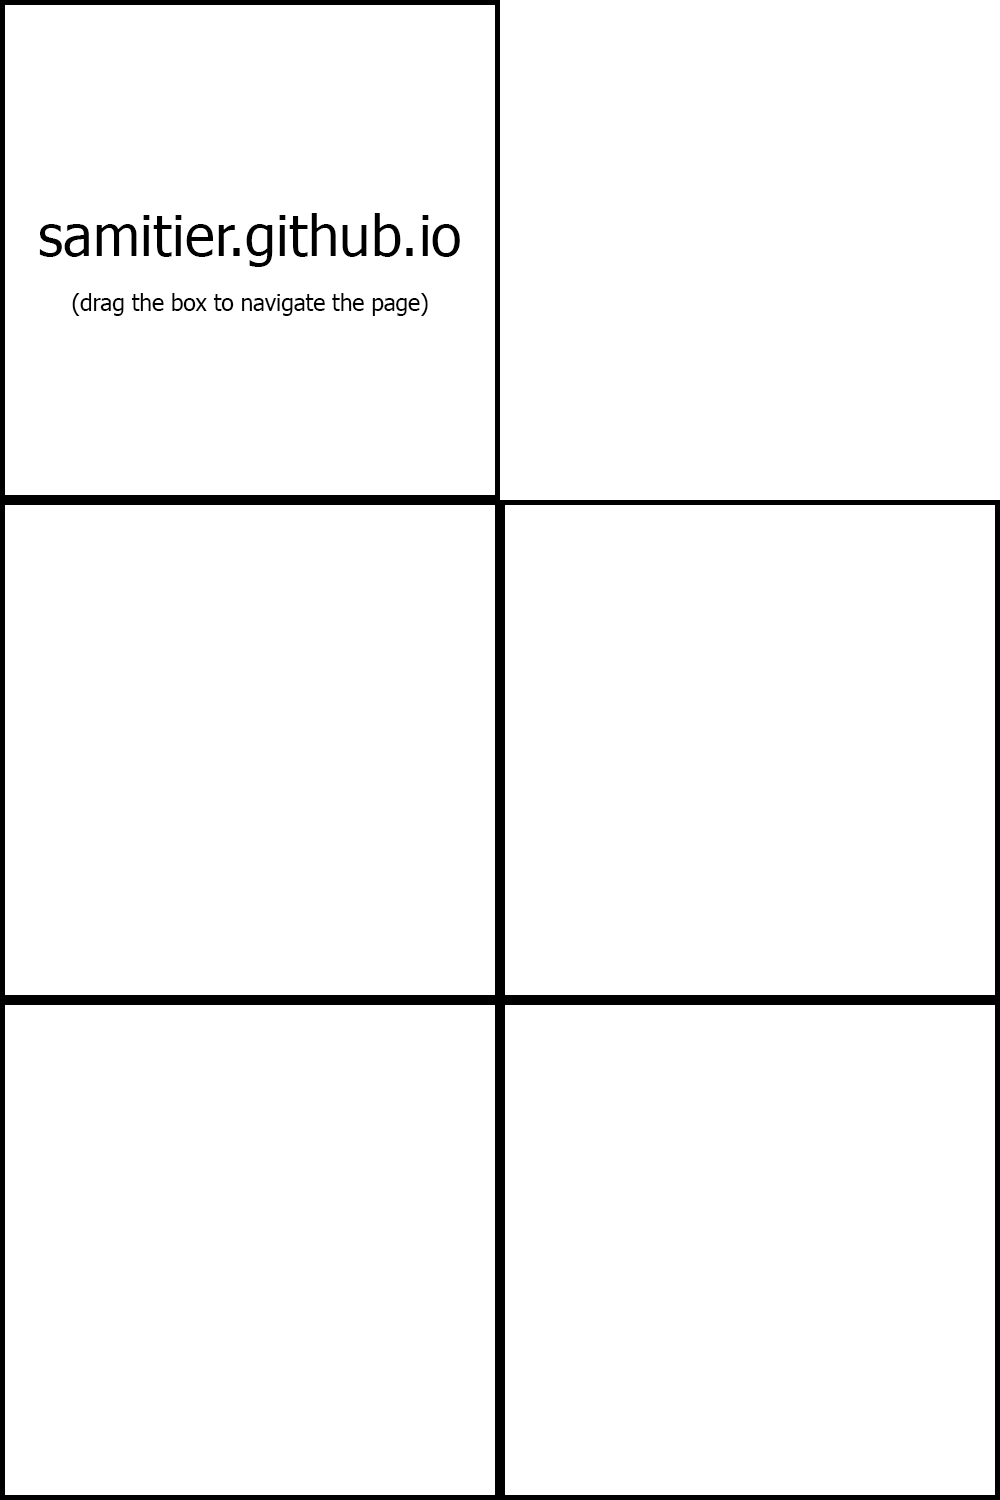
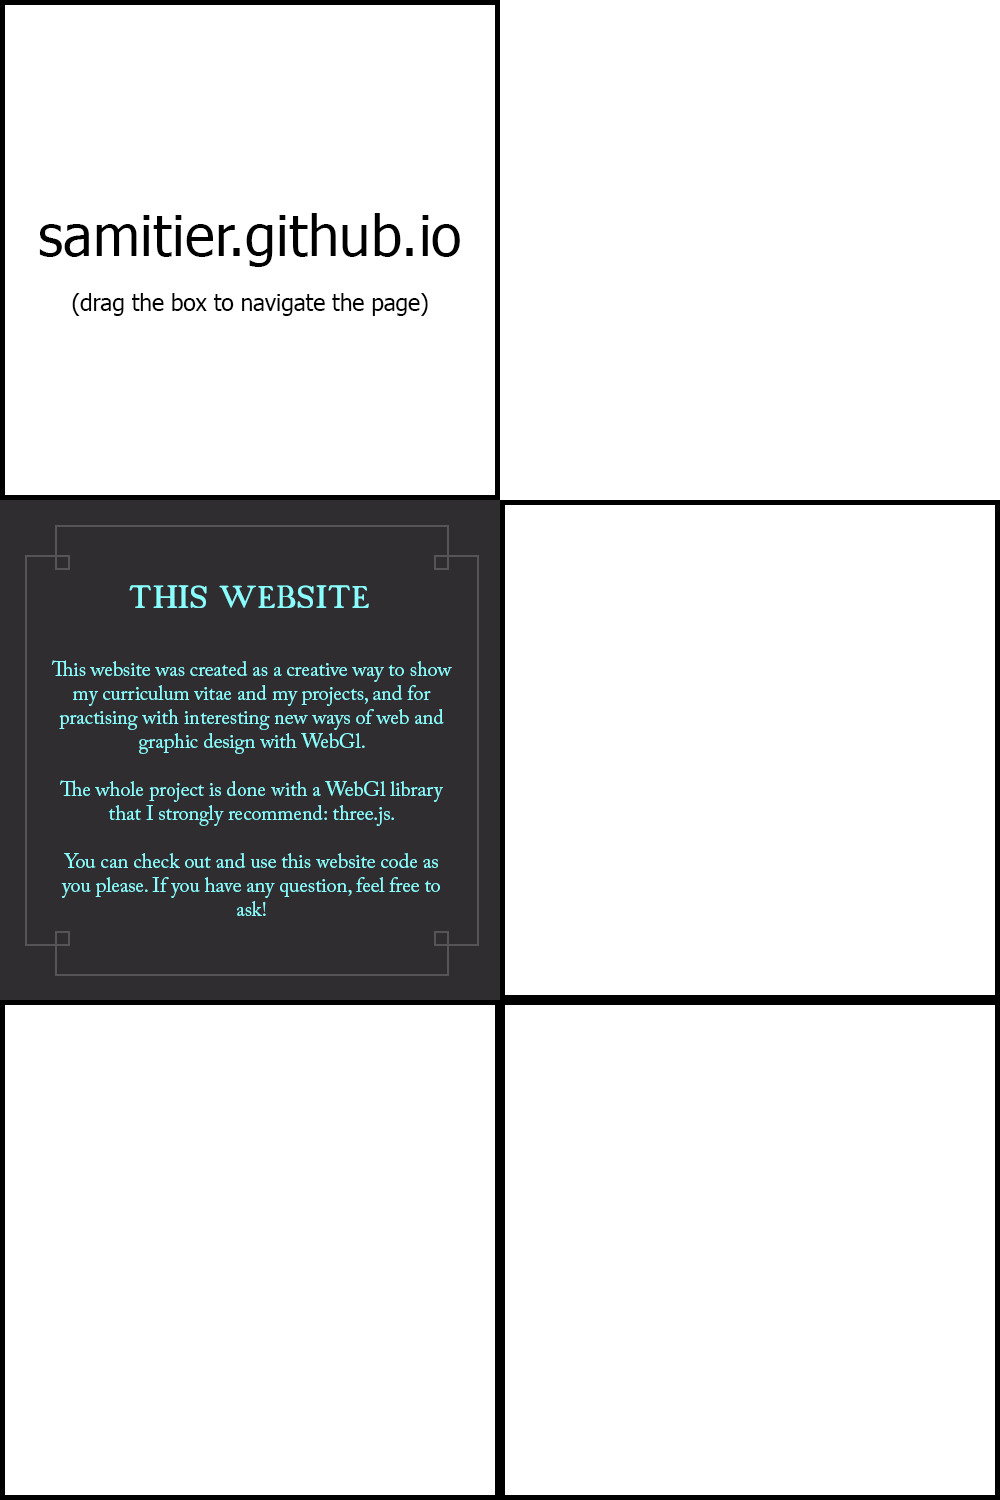
navigation data structure added, website page added
also debug background textures for each page

Changed region(s): [[0.0, 0.3067, 0.527, 0.6747]]

diff --git a/js/main.js b/js/main.js
@@ -1,27 +1,23 @@
 var MAX_ROTATION = 1.5708;
 var background,background2, backgroundScene, backgroundCam;
 var cube, scene, camera;
-var uvCoords;
 var renderer;
-var rotx, roty, mousex, mousey, mouseDown,axisRotating;
+var rotx, roty, mousex, mousey, mouseDown,rotationAxis;
 var curPage;
-var textureMain, textureProva, backgroundTexture, backgroundTexture2;
 
 function init() {
    if(Modernizr.webgl && Modernizr.canvas) {
 
       //BACKGROUND
-      backgroundTexture = THREE.ImageUtils.loadTexture( 'img/bkg/bkg1.png' );
       background = new THREE.Mesh(
          new THREE.PlaneGeometry(2, 2, 0),
-         new THREE.MeshBasicMaterial({map: backgroundTexture, transparent:true, opacity: 1})
+         new THREE.MeshBasicMaterial({map: bkgMain, transparent:true, opacity: 1})
       );
       background.material.depthTest = false;
       background.material.depthWrite = false;
-      backgroundTexture2 = THREE.ImageUtils.loadTexture( 'img/bkg/bkg2.jpg' );
       background2 = new THREE.Mesh(
          new THREE.PlaneGeometry(2, 2, 0),
-         new THREE.MeshBasicMaterial({map: backgroundTexture2, transparent:true, opacity: 1})
+         new THREE.MeshBasicMaterial({map: bkgMain})
       );
       background2.material.depthTest = false;
       background2.material.depthWrite = false;
@@ -35,44 +31,23 @@ function init() {
       //CUBE
       scene = new THREE.Scene();
       camera = new THREE.PerspectiveCamera( 75, window.innerWidth / window.innerHeight, 0.1, 1000 );
+      camera.position.z = 1.4;
       renderer = new THREE.WebGLRenderer();
       renderer.setSize( window.innerWidth, window.innerHeight );
       document.body.appendChild( renderer.domElement );
       var geometry = new THREE.BoxGeometry( 1, 1, 1 );
-      textureMain = THREE.ImageUtils.loadTexture( 'img/pages/main.png' );
-      textureProva = THREE.ImageUtils.loadTexture( 'img/pages/prova.png' );
-      var material = new THREE.MeshBasicMaterial( {map: textureMain} );
-      curPage = "main";
-
-      //UV MAPPING
-      uvCoords={front :[new THREE.Vector2(0, .666), new THREE.Vector2(.5, .666), new THREE.Vector2(.5, 1), new THREE.Vector2(0, 1)],
-               back:[new THREE.Vector2(.5, .666), new THREE.Vector2(1, .666), new THREE.Vector2(1, 1), new THREE.Vector2(.5, 1)],
-               left:[new THREE.Vector2(0, .333), new THREE.Vector2(.5, .333), new THREE.Vector2(.5, .666), new THREE.Vector2(0, .666)],
-               right:[new THREE.Vector2(.5, .333), new THREE.Vector2(1, .333), new THREE.Vector2(1, .666), new THREE.Vector2(.5, .666)],
-               top:[new THREE.Vector2(0, 0), new THREE.Vector2(.5, 0), new THREE.Vector2(.5, .333), new THREE.Vector2(0, .333)],
-               down:[new THREE.Vector2(.5, 0), new THREE.Vector2(1, 0), new THREE.Vector2(1, .333), new THREE.Vector2(.5, .333)]};
-
-      geometry.faceVertexUvs[0][0] = [uvCoords.right[3], uvCoords.right[0], uvCoords.right[2]];
-      geometry.faceVertexUvs[0][1] = [uvCoords.right[0], uvCoords.right[1], uvCoords.right[2]];
-      geometry.faceVertexUvs[0][2] = [uvCoords.left[3], uvCoords.left[0], uvCoords.left[2]];
-      geometry.faceVertexUvs[0][3] = [uvCoords.left[0], uvCoords.left[1], uvCoords.left[2]];
-      geometry.faceVertexUvs[0][4] = [uvCoords.top[3], uvCoords.top[0], uvCoords.top[2]];
-      geometry.faceVertexUvs[0][5] = [uvCoords.top[0], uvCoords.top[1], uvCoords.top[2]];
-      geometry.faceVertexUvs[0][6] = [uvCoords.down[3], uvCoords.down[0], uvCoords.down[2]];
-      geometry.faceVertexUvs[0][7] = [uvCoords.down[0], uvCoords.down[1], uvCoords.down[2]];
-      geometry.faceVertexUvs[0][8] = [uvCoords.front[3], uvCoords.front[0], uvCoords.front[2]];
-      geometry.faceVertexUvs[0][9] = [uvCoords.front[0], uvCoords.front[1], uvCoords.front[2]];
-      geometry.faceVertexUvs[0][10] = [uvCoords.back[3], uvCoords.back[0], uvCoords.back[2]];
-      geometry.faceVertexUvs[0][11] = [uvCoords.back[0], uvCoords.back[1], uvCoords.back[2]];
-
+      var texture = THREE.ImageUtils.loadTexture( 'img/pages/pages.png' );
+      var material = new THREE.MeshBasicMaterial( {map: texture} );
       cube = new THREE.Mesh( geometry, material );
       scene.add( cube );
-      camera.position.z = 1.4;
+
+      //UV MAPPING - SETTING MAIN PAGE
+      setPage(navs.main);
 
       //MOVEMENT
       rotx = roty =  mousex= mousey=0;
       mouseDown = false;
-      axisRotating = "none";
+      rotationAxis = "none";
 
       //EVENTS
       window.addEventListener( 'resize', onResize, false );
@@ -102,9 +77,10 @@ function render() {
 }
 
 function update() {
-   if(axisRotating =='y')background.material.opacity = 1-(Math.abs(roty)/MAX_ROTATION);
-   else if(axisRotating =='x')background.material.opacity = 1-(Math.abs(rotx)/MAX_ROTATION);
-
+   //transition of the background
+   if(rotationAxis == "y")background.material.opacity = 1-(Math.abs(roty)/MAX_ROTATION);
+   else if(rotationAxis == "x")background.material.opacity = 1-(Math.abs(rotx)/MAX_ROTATION);
+   //if the cube is between two rotations it will move itself until a final position
    if(!mouseDown){
       if(Math.abs(rotx) > MAX_ROTATION/2){
          rotx += 0.05*Math.sign(rotx);
@@ -117,63 +93,77 @@ function update() {
       else  if(Math.abs(roty)>0.05)roty -= 0.05*Math.sign(roty);
       else roty =0;
    }
+   //if user is moving the cube we set the new background that will do the transition
+   else {
+      if(rotx > 0 && cube.rotation.x<=0) {
+         background2.material.map = navs[navs[curPage]['top']].background;
+      }
+      else if(rotx < 0 && cube.rotation.x>=0 ) {
+         background2.material.map = navs[navs[curPage]['bottom']].background;
+      }
+      if(roty > 0 && cube.rotation.y<=0)  {
+         background2.material.map = navs[navs[curPage]['left']].background;
+      }
+      else if(roty < 0 && cube.rotation.y>=0 ) {
+         background2.material.map = navs[navs[curPage]['right']].background;
+      }
+   }
+   //if the user completely rotates the cube, the navigation will happen
    if(Math.abs(rotx) > MAX_ROTATION) {
+      var dir = "bottom";
+      if(rotx > 0) dir = "top";
+      setPage(navs[navs[curPage][dir]]);
       cube.rotation.x = rotx = 0;
-      var material;
-      if(curPage == 'main') {
-          material = new THREE.MeshBasicMaterial( {map: textureProva } );
-          background.material.map = backgroundTexture2;
-          background.material.opacity = 1;
-          background2.material.map = backgroundTexture;
-          curPage = 'prova';
-       }
-       else if(curPage == 'prova') {
-          material = new THREE.MeshBasicMaterial( {map: textureMain } );
-          background.material.map = backgroundTexture;
-          background.material.opacity = 1;
-          background2.material.map = backgroundTexture2;
-          curPage = 'main';
-       }
-      cube.material = material;
    }
-   else cube.rotation.x = rotx;
-   if(Math.abs(roty) > MAX_ROTATION) {
+   else if(Math.abs(roty) > MAX_ROTATION) {
+      var dir = "right";
+      if(roty>0) dir = "left";
+      setPage(navs[navs[curPage][dir]]);
       cube.rotation.y = roty = 0;
-      var material;
-      if(curPage == 'main') {
-         material = new THREE.MeshBasicMaterial( {map: textureProva } );
-         background.material.map = backgroundTexture2;
-         background.material.opacity = 1;
-         background2.material.map = backgroundTexture;
-         curPage = 'prova';
-      }
-      else if(curPage == 'prova') {
-         material = new THREE.MeshBasicMaterial( {map: textureMain } );
-         background.material.map = backgroundTexture;
-         background.material.opacity = 1;
-         background2.material.map = backgroundTexture2;
-         curPage = 'main';
-      }
-      cube.material = material;
    }
-   else cube.rotation.y = roty;
+   else {
+      cube.rotation.x = rotx;
+      cube.rotation.y = roty;
+   }
 }
+
+function setPage(page) {
+   curPage = page.front;
+   cube.geometry.faceVertexUvs[0][0] = [uv[page.right][3], uv[page.right][0], uv[page.right][2]];
+   cube.geometry.faceVertexUvs[0][1] = [uv[page.right][0], uv[page.right][1], uv[page.right][2]];
+   cube.geometry.faceVertexUvs[0][2] = [uv[page.left][3], uv[page.left][0],uv[page.left][2]];
+   cube.geometry.faceVertexUvs[0][3] = [uv[page.left][0], uv[page.left][1], uv[page.left][2]];
+   cube.geometry.faceVertexUvs[0][4] = [uv[page.top][3], uv[page.top][0], uv[page.top][2]];
+   cube.geometry.faceVertexUvs[0][5] = [uv[page.top][0], uv[page.top][1], uv[page.top][2]];
+   cube.geometry.faceVertexUvs[0][6] = [uv[page.bottom][3], uv[page.bottom][0], uv[page.bottom][2]];
+   cube.geometry.faceVertexUvs[0][7] = [uv[page.bottom][0],uv[page.bottom][1], uv[page.bottom][2]];
+   cube.geometry.faceVertexUvs[0][8] = [uv[page.front][3], uv[page.front][0], uv[page.front][2]];
+   cube.geometry.faceVertexUvs[0][9] = [uv[page.front][0], uv[page.front][1], uv[page.front][2]];
+   //the uvs for the back face, we don't really care about them
+   cube.geometry.faceVertexUvs[0][10] = [0, 0, 0];
+   cube.geometry.faceVertexUvs[0][11] = [0, 0, 0];
+   cube.geometry.uvsNeedUpdate = true;
+   //and we set the background texture
+   background.material.map = page["background"];
+   background.material.opacity = 1;
+}
+
 
 ///EVENTS///
 function onMouseMove( event ) {
    if(mouseDown) {
-      if(axisRotating =="none") {
-         if(event.x != mousex && event.y == mousey) axisRotating = "y";
-         else if(event.x == mousex && event.y != mousey) axisRotating = "x";
+      if(rotationAxis =="none") {
+         if(event.x != mousex && event.y == mousey) rotationAxis = "y";
+         else if(event.x == mousex && event.y != mousey) rotationAxis = "x";
       }
-      else if (axisRotating == "x") rotx += (event.y-mousey)*0.005;
-      else if (axisRotating == "y") roty += (event.x-mousex)*0.005;
+      else if (rotationAxis == "x") rotx += (event.y-mousey)*0.005;
+      else if (rotationAxis == "y") roty += (event.x-mousex)*0.005;
       mousex = event.x;
       mousey = event.y;
    }
 }
 function onMouseDown( event ) {
-   axisRotating = "none";
+   if(rotx ==0 && roty ==0) rotationAxis = "none";
    mousex = event.x;
    mousey = event.y;
    mouseDown = true;
@@ -182,18 +172,18 @@ function onMouseUp( event ) {
    mouseDown = false;
 }
 function onTouchStart (event) {
-   axisRotating = "none";
+   if(rotx ==0 && roty ==0) rotationAxis = "none";
    mousex = event.touches[0].screenX;
    mousey = event.touches[0].screenY;
    mouseDown = true;
 }
 function onTouchMove (event) {
-   if(axisRotating =="none") {
-      if(event.touches[0].screenX != mousex && event.touches[0].screenY == mousey) axisRotating = "y";
-      else if(event.touches[0].screenX == mousex && event.touches[0].screenY != mousey) axisRotating = "x";
+   if(rotationAxis =="none") {
+      if(event.touches[0].screenX != mousex && event.touches[0].screenY == mousey) rotationAxis = "y";
+      else if(event.touches[0].screenX == mousex && event.touches[0].screenY != mousey) rotationAxis = "x";
    }
-   else if (axisRotating == "x") rotx += (event.touches[0].screenY-mousey)*0.01;
-   else if (axisRotating == "y") roty += (event.touches[0].screenX-mousex)*0.01;
+   else if (rotationAxis == "x") rotx += (event.touches[0].screenY-mousey)*0.01;
+   else if (rotationAxis == "y") roty += (event.touches[0].screenX-mousex)*0.01;
    mousex = event.touches[0].screenX;
    mousey = event.touches[0].screenY;
 }

diff --git a/js/pages.js b/js/pages.js
@@ -1,0 +1,19 @@
+var uv     = { main : [new THREE.Vector2(0, .875), new THREE.Vector2(.125, .875), new THREE.Vector2(.125, 1),new THREE.Vector2(0, 1)],
+               website : [new THREE.Vector2(.125, .875), new THREE.Vector2(.250, .875), new THREE.Vector2(.250, 1),new THREE.Vector2(.125, 1)],
+               contact : [new THREE.Vector2(.250, .875), new THREE.Vector2(.375, .875), new THREE.Vector2(.375, 1),new THREE.Vector2(.250, 1)],
+               me : [new THREE.Vector2(.250, .875), new THREE.Vector2(.375, .875), new THREE.Vector2(.375, 1),new THREE.Vector2(.250, 1)],
+               projects : [new THREE.Vector2(.250, .875), new THREE.Vector2(.375, .875), new THREE.Vector2(.375, 1),new THREE.Vector2(.250, 1)]
+};
+
+var bkgMain = THREE.ImageUtils.loadTexture( 'img/bkg/bkg1.png' );
+var bkgWebsite = THREE.ImageUtils.loadTexture( 'img/bkg/bkg3.png');
+var bkgContact = THREE.ImageUtils.loadTexture( 'img/bkg/bkg2.jpg');
+var bkgProva1 = THREE.ImageUtils.loadTexture( 'img/bkg/bkg2.png');
+var bkgProva2 = THREE.ImageUtils.loadTexture( 'img/bkg/bkg3.jpg');
+
+var navs = {   main:    {top : "projects",bottom : "me",   left : "website", right: "contact", front: "main",    background:bkgMain},
+               website: {top : "main",    bottom : "main", left : "main",    right: "main",     front: "website", background:bkgWebsite},
+               contact: {top : "main",    bottom : "main", left : "main",    right: "main",     front: "contact", background:bkgContact},
+               me:      {top : "main",    bottom : "main", left : "main",    right: "main",     front: "me",      background:bkgProva1},
+               projects:{top : "main",    bottom : "main", left : "main",    right:"main",      front: "projects",background:bkgProva2}
+}

diff --git a/index.html b/index.html
@@ -10,6 +10,7 @@
 <body onload="init()">
 <script src="js/three.min.js"></script>
 <script src="js/modernizr.js"></script>
+<script src="js/pages.js"></script>
 <script src="js/main.js"></script>
 </body>
 </html>
